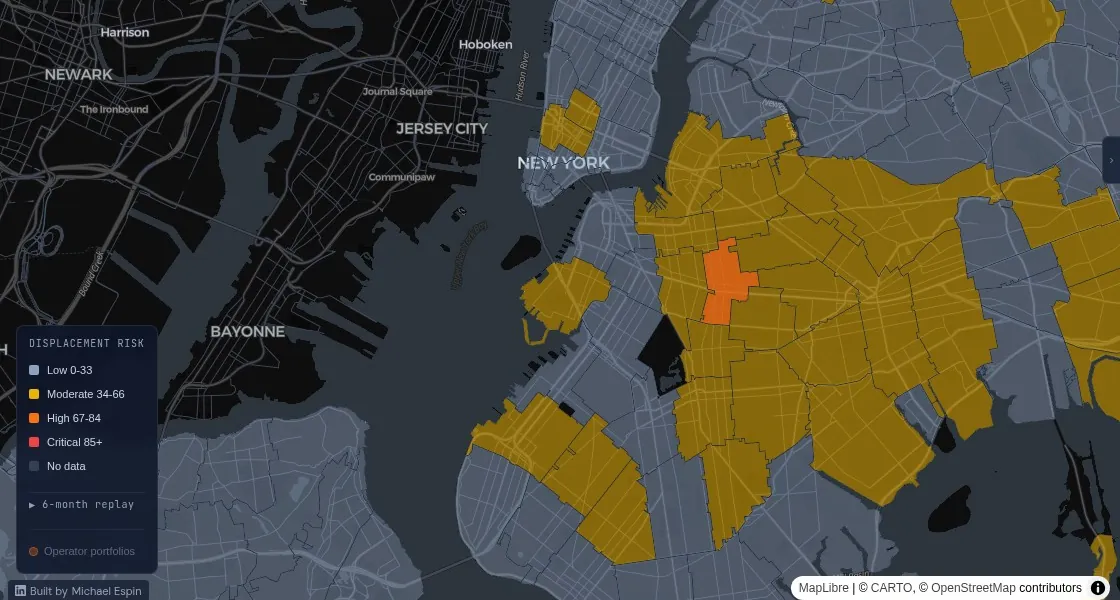
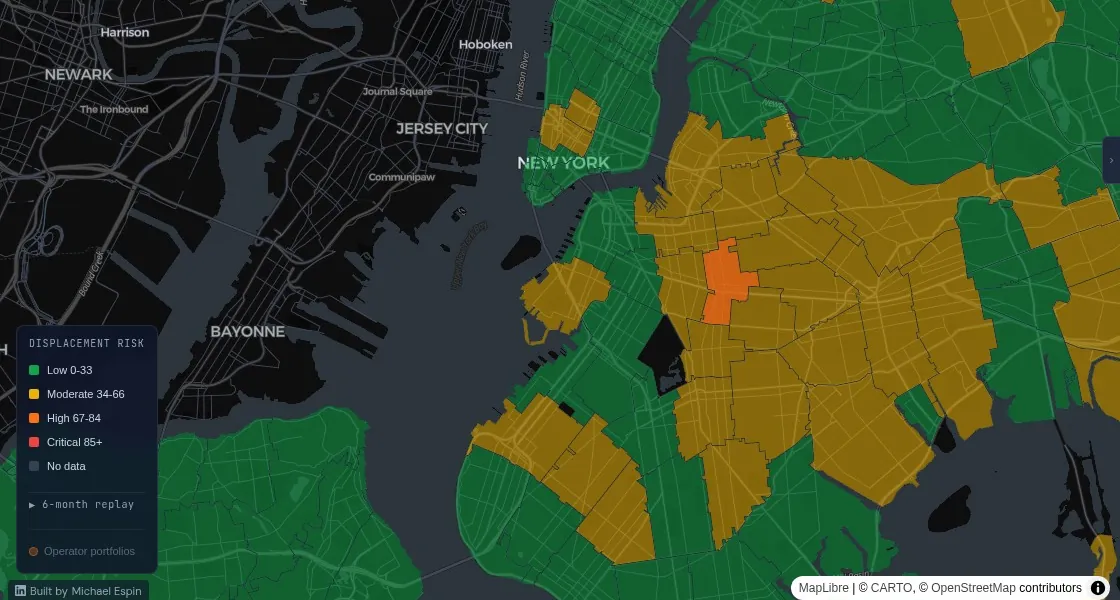
feat(seo): green returns to the map, /neighborhoods directory, real 404s
Michael called the grey low tier lifeless and wanted green back. Low is
now a deeper green (#16a34a at 0.55) instead of the old neon, with the
gold/orange/red heat ramp and opacity steps kept, so stable reads alive
and pressure still owns the map. Teaser and og-image regenerated;
teaser URLs carry ?v=2 to bust the 30-day immutable cache.

New /neighborhoods directory: every scored ZIP grouped by borough and
ranked by score, server-rendered with ItemList JSON-LD. One crawlable hop
from the homepage to all 177 neighborhood pages, which were previously
reachable only through the map app or the sitemap. Linked from the
rankings CTA and the footer; nginx location added and config synced to
deploy/.

Soft 404s are gone: unknown or malformed /neighborhood/ and /property/
paths return the real 404 page (noindex) instead of a 200 app shell, and
the junk 99999 row in the neighborhoods table no longer renders a page.
Tests updated to pin the 404 contract.

Landing header widens to 1200px with a larger wordmark so the brand sits
left and all links fit one row on desktop.

diff --git a/frontend/index.html b/frontend/index.html
@@ -370,16 +370,16 @@
 
     <!-- Nav -->
     <header style="border-bottom:1px solid rgba(51,65,85,0.4);position:sticky;top:0;z-index:20;background:rgba(10,10,26,0.92);backdrop-filter:blur(8px);">
-        <nav id="site-nav" style="max-width:680px;margin:0 auto;padding:12px 20px;display:flex;align-items:center;justify-content:space-between;">
+        <nav id="site-nav" style="max-width:1200px;margin:0 auto;padding:12px 24px;display:flex;align-items:center;justify-content:space-between;">
             <div id="wordmark-group" style="display:flex;align-items:center;gap:10px;">
-                <a href="/" style="display:inline-flex;align-items:center;gap:8px;font-size:1rem;font-weight:600;color:#e2e8f0;text-decoration:none;letter-spacing:-0.01em;">
-                    <svg width="20" height="20" viewBox="0 0 32 32" fill="none" xmlns="http://www.w3.org/2000/svg" aria-hidden="true" focusable="false">
+                <a href="/" style="display:inline-flex;align-items:center;gap:9px;font-size:1.25rem;font-weight:600;color:#e2e8f0;text-decoration:none;letter-spacing:-0.01em;">
+                    <svg width="26" height="26" viewBox="0 0 32 32" fill="none" xmlns="http://www.w3.org/2000/svg" aria-hidden="true" focusable="false">
                         <rect width="32" height="32" rx="6" fill="#1a1a2e"/>
                         <polyline points="2,16 7,16 10,9 13,23 16,13 19,19 22,16 30,16" fill="none" stroke="#f97316" stroke-width="2.2" stroke-linecap="round" stroke-linejoin="round"/>
                     </svg>
                     PulseCities
                 </a>
-                <a id="byline-link" href="https://www.linkedin.com/in/michaelespin/" target="_blank" rel="noopener noreferrer" aria-label="by Michael Espin on LinkedIn" style="font-size:11px;color:#94a3b8;text-decoration:none;transition:color 0.15s;" onmouseover="this.style.color='#cbd5e1'" onmouseout="this.style.color='#94a3b8'">by Michael Espin</a>
+                <a id="byline-link" href="https://www.linkedin.com/in/michaelespin/" target="_blank" rel="noopener noreferrer" aria-label="by Michael Espin on LinkedIn" style="font-size:12px;color:#94a3b8;text-decoration:none;transition:color 0.15s;align-self:flex-end;padding-bottom:3px;" onmouseover="this.style.color='#cbd5e1'" onmouseout="this.style.color='#94a3b8'">by Michael Espin</a>
             </div>
             <div id="nav-links" style="display:flex;align-items:center;gap:20px;">
                 <a href="/map" style="font-size:12px;color:#94a3b8;text-decoration:none;transition:color 0.15s;">Map</a>
@@ -453,8 +453,8 @@
             <!-- The map itself is the pitch: static shot, click through to the app -->
             <a href="/map" id="cta-explore" class="map-teaser" aria-label="Explore the live displacement risk map">
                 <picture>
-                    <source srcset="/map-preview-560.webp 560w, /map-preview.webp 1120w" sizes="(max-width: 680px) calc(100vw - 40px), 640px" type="image/webp">
-                    <img src="/map-preview.jpg" srcset="/map-preview-560.jpg 560w, /map-preview.jpg 1120w" sizes="(max-width: 680px) calc(100vw - 40px), 640px" width="1120" height="600" alt="Live displacement risk map of NYC. Low-pressure areas in cool blue, moderate in bronze, high-pressure neighborhoods glowing orange." loading="eager" fetchpriority="high" decoding="async">
+                    <source srcset="/map-preview-560.webp?v=2 560w, /map-preview.webp?v=2 1120w" sizes="(max-width: 680px) calc(100vw - 40px), 640px" type="image/webp">
+                    <img src="/map-preview.jpg?v=2" srcset="/map-preview-560.jpg?v=2 560w, /map-preview.jpg?v=2 1120w" sizes="(max-width: 680px) calc(100vw - 40px), 640px" width="1120" height="600" alt="Live displacement risk map of NYC. Stable areas in green, moderate pressure in gold, high-pressure neighborhoods glowing orange." loading="eager" fetchpriority="high" decoding="async">
                 </picture>
                 <span class="map-teaser-label" data-i18n="explore_map">Explore the map &rarr;</span>
             </a>
@@ -549,6 +549,7 @@
                 <a href="https://www.linkedin.com/in/michaelespin/" target="_blank" rel="noopener noreferrer" style="color:#64748b;text-decoration:none;" onmouseover="this.style.color='#94a3b8'" onmouseout="this.style.color='#64748b'">Built by Michael Espin</a>
             </div>
             <div id="footer-nav" style="display:flex;justify-content:center;gap:20px;flex-wrap:wrap;align-items:center;">
+                <a href="/neighborhoods" style="color:#64748b;text-decoration:none;" onmouseover="this.style.color='#94a3b8'" onmouseout="this.style.color='#64748b'">Neighborhoods</a>
                 <a href="/methodology" style="color:#64748b;text-decoration:none;" onmouseover="this.style.color='#94a3b8'" onmouseout="this.style.color='#64748b'">Methodology</a>
                 <a href="/about" style="color:#64748b;text-decoration:none;" onmouseover="this.style.color='#94a3b8'" onmouseout="this.style.color='#64748b'">About</a>
                 <a href="/status" style="color:#64748b;text-decoration:none;" onmouseover="this.style.color='#94a3b8'" onmouseout="this.style.color='#64748b'">Status</a>
@@ -770,7 +771,7 @@
             });
 
             const cta = document.createElement('a');
-            cta.href      = '/map';
+            cta.href      = '/neighborhoods';
             cta.className = 'font-mono';
             cta.style.cssText = 'display:inline-block;margin-top:12px;font-size:12px;color:#38bdf8;text-decoration:none;opacity:0.7;transition:opacity 0.15s;';
             cta.textContent = 'View full rankings →';

diff --git a/frontend/app.html b/frontend/app.html
@@ -437,7 +437,7 @@
             <!-- Map legend — bottom-left, always visible -->
             <div id="map-legend" class="absolute bottom-9 left-4 z-10 rounded-lg px-3 py-2 flex flex-col gap-1" style="background:rgba(15,23,42,0.88);backdrop-filter:blur(6px);border:1px solid rgba(148,163,184,0.15);font-size:11px;">
                 <div class="text-slate-400 font-mono uppercase tracking-wider mb-0.5" style="font-size:10px;letter-spacing:0.08em;"><span id="legend-header">displacement risk</span></div>
-                <div class="flex items-center gap-2"><span style="width:10px;height:10px;border-radius:2px;background:#8da2c0;display:inline-block;flex-shrink:0;"></span><span id="legend-low" class="text-slate-300">Low 0-33</span></div>
+                <div class="flex items-center gap-2"><span style="width:10px;height:10px;border-radius:2px;background:#16a34a;display:inline-block;flex-shrink:0;"></span><span id="legend-low" class="text-slate-300">Low 0-33</span></div>
                 <div class="flex items-center gap-2"><span style="width:10px;height:10px;border-radius:2px;background:#eab308;display:inline-block;flex-shrink:0;"></span><span id="legend-moderate" class="text-slate-300">Moderate 34-66</span></div>
                 <div class="flex items-center gap-2"><span style="width:10px;height:10px;border-radius:2px;background:#f97316;display:inline-block;flex-shrink:0;"></span><span id="legend-high" class="text-slate-300">High 67-84</span></div>
                 <div class="flex items-center gap-2"><span style="width:10px;height:10px;border-radius:2px;background:#ef4444;display:inline-block;flex-shrink:0;"></span><span id="legend-critical" class="text-slate-300">Critical 85+</span></div>
@@ -2109,8 +2109,9 @@
                 console.debug('[perf] GeoJSON source loaded', Math.round(performance.now() - _perfGeoJsonStart) + 'ms');
             });
 
-            // Choropleth fill layer. Low-pressure ZIPs sit quiet in cool steel;
-            // the ramp only warms where the score does, so heat is the signal.
+            // Choropleth fill layer. Stable ZIPs read green, then the ramp
+            // warms with the score and opacity rises with it, so pressure
+            // still owns the map at a glance.
             map.addLayer({
                 id: 'neighborhood-fill',
                 type: 'fill',
@@ -2121,7 +2122,7 @@
                         ['==', ['coalesce', ['feature-state', 'score'], ['get', 'score']], null], '#334155',
                         [
                             'step', ['coalesce', ['feature-state', 'score'], ['get', 'score']],
-                            '#8da2c0',
+                            '#16a34a',
                             34, '#eab308',
                             67, '#f97316',
                             85, '#ef4444'
@@ -2132,7 +2133,7 @@
                         ['==', ['coalesce', ['feature-state', 'score'], ['get', 'score']], null], 0.45,
                         [
                             'step', ['coalesce', ['feature-state', 'score'], ['get', 'score']],
-                            0.5,
+                            0.55,
                             34, 0.55,
                             67, 0.82,
                             85, 0.9

diff --git a/frontend/methodology.html b/frontend/methodology.html
@@ -681,7 +681,7 @@
 
         <div class="score-ranges">
             <div class="score-range">
-                <div class="color-dot" style="background:#56688c;"></div>
+                <div class="color-dot" style="background:#16a34a;"></div>
                 <span class="score-range-num">0 – 33</span>
                 <span class="score-range-label">Low pressure</span>
             </div>

diff --git a/api/routes/frontend.py b/api/routes/frontend.py
@@ -48,6 +48,18 @@ def _operator_template() -> str:
     return _operator_html
 
 
+_not_found_html: str | None = None
+
+
+def _not_found() -> HTMLResponse:
+    """Real 404 for unknown neighborhood/property paths. Serving the app
+    shell with a 200 here reads as a soft 404 to crawlers."""
+    global _not_found_html
+    if _not_found_html is None:
+        _not_found_html = (_FRONTEND / "404.html").read_text()
+    return HTMLResponse(_not_found_html, status_code=404)
+
+
 def _set_meta(html: str, attr: str, attr_val: str, new_content: str) -> str:
     """Replace content="..." on the meta tag identified by attr=attr_val.
 
@@ -509,7 +521,7 @@ def about_page():
 @router.get("/neighborhood/{zip_code}", include_in_schema=False)
 def neighborhood_page(zip_code: str, db: Session = Depends(get_db)):
     if not (len(zip_code) == 5 and zip_code.isdigit()):
-        return HTMLResponse(_template(), status_code=200)
+        return _not_found()
 
     cached = _page_cache.get(zip_code)
     if cached and time.monotonic() < cached[1]:
@@ -522,8 +534,10 @@ def neighborhood_page(zip_code: str, db: Session = Depends(get_db)):
         WHERE n.zip_code = :zip
     """), {"zip": zip_code}).fetchone()
 
-    if not row:
-        return HTMLResponse(_template(), status_code=200)
+    # No row, or a placeholder row with neither name nor score (the table
+    # carries at least one junk entry): nothing to render, real 404.
+    if not row or (row.name is None and row.score is None):
+        return _not_found()
 
     from api.routes.neighborhoods import _borough_from_zip, _build_summary, _fetch_raw_counts
 
@@ -565,7 +579,7 @@ def neighborhood_page(zip_code: str, db: Session = Depends(get_db)):
 def property_page(bbl: str, db: Session = Depends(get_db)):
     clean = bbl.strip()
     if not clean.isdigit():
-        return HTMLResponse(_template(), status_code=200)
+        return _not_found()
 
     cached = _prop_page_cache.get(clean)
     if cached and time.monotonic() < cached[1]:
@@ -590,7 +604,7 @@ def property_page(bbl: str, db: Session = Depends(get_db)):
     """), {"bbl": clean}).fetchone()
 
     if not row:
-        return HTMLResponse(_template(), status_code=200)
+        return _not_found()
 
     address  = row.address.title() if row.address else clean
     zip_code = row.zip_code or ""
@@ -1165,6 +1179,175 @@ footer{{text-align:center;padding:24px 16px calc(env(safe-area-inset-bottom,0px)
 </html>"""
 
     _operators_cache = (page, time.monotonic() + _PAGE_TTL)
+    return HTMLResponse(page)
+
+
+_nbhd_index_cache: tuple[str, float] | None = None  # cleared on restart
+
+
+@router.get("/neighborhoods", include_in_schema=False)
+def neighborhoods_directory(db: Session = Depends(get_db)):
+    """Every scored ZIP page, grouped by borough, ranked by score.
+
+    One crawlable hop from the homepage to all 177 neighborhood pages, and a
+    scannable answer to "how does my area compare" without opening the map.
+    """
+    global _nbhd_index_cache
+    if _nbhd_index_cache and time.monotonic() < _nbhd_index_cache[1]:
+        return HTMLResponse(_nbhd_index_cache[0])
+
+    from api.routes.neighborhoods import _borough_from_zip
+
+    rows = db.execute(text("""
+        SELECT n.zip_code, n.name, ds.score
+        FROM neighborhoods n
+        JOIN displacement_scores ds ON ds.zip_code = n.zip_code
+        WHERE ds.score IS NOT NULL
+        ORDER BY ds.score DESC
+    """)).fetchall()
+
+    boroughs: dict[str, list] = {}
+    for r in rows:
+        b = _borough_from_zip(r.zip_code) or "Other"
+        boroughs.setdefault(b, []).append(r)
+
+    sections_html = ""
+    list_items = []
+    pos = 0
+    for borough in ("Manhattan", "Brooklyn", "Queens", "Bronx", "Staten Island", "Other"):
+        entries = boroughs.get(borough)
+        if not entries:
+            continue
+        rows_html = ""
+        for r in entries:
+            score = float(r.score)
+            _, color = _tier_info(score)
+            name = _html.escape(r.name or r.zip_code)
+            width = max(2, min(100, score))
+            pos += 1
+            rows_html += (
+                f'<li class="nb-row"><a href="/neighborhood/{r.zip_code}">'
+                f'<span class="nb-zip">{r.zip_code}</span>'
+                f'<span class="nb-name">{name}</span>'
+                f'<span class="nb-score" style="color:{color};">{score:.1f}</span>'
+                f'<span class="nb-track"><span class="nb-fill" style="width:{width}%;background:{color};"></span></span>'
+                f'</a></li>\n'
+            )
+            list_items.append({
+                "@type": "ListItem",
+                "position": pos,
+                "name": f"{r.name or r.zip_code} ({r.zip_code}) displacement score",
+                "url": f"https://pulsecities.com/neighborhood/{r.zip_code}",
+            })
+        sections_html += (
+            f'<section class="nb-borough">'
+            f'<h2>{borough}</h2>'
+            f'<ul class="nb-list">\n{rows_html}</ul>'
+            f'</section>\n'
+        )
+
+    n = len(rows)
+    title = "NYC Neighborhoods by Displacement Score | PulseCities"
+    desc = (
+        f"Displacement-pressure scores for all {n} scored NYC ZIP codes, grouped by borough "
+        f"and ranked by current score. Built from public records, refreshed nightly."
+    )
+    jsonld = json.dumps({
+        "@context": "https://schema.org",
+        "@type": "ItemList",
+        "name": "NYC neighborhoods by displacement score",
+        "description": desc,
+        "url": "https://pulsecities.com/neighborhoods",
+        "numberOfItems": n,
+        "itemListElement": list_items,
+    }, indent=2)
+
+    page = f"""<!DOCTYPE html>
+<html lang="en">
+<head>
+<meta charset="UTF-8">
+<meta name="viewport" content="width=device-width, initial-scale=1.0">
+<title>{_html.escape(title)}</title>
+<meta name="description" content="{_html.escape(desc)}">
+<link rel="canonical" href="https://pulsecities.com/neighborhoods">
+<meta property="og:title" content="{_html.escape(title)}">
+<meta property="og:description" content="{_html.escape(desc)}">
+<meta property="og:url" content="https://pulsecities.com/neighborhoods">
+<meta property="og:type" content="website">
+<meta property="og:site_name" content="PulseCities">
+<meta property="og:image" content="https://pulsecities.com/og-image.png">
+<meta name="twitter:card" content="summary_large_image">
+<meta name="twitter:title" content="{_html.escape(title)}">
+<meta name="twitter:description" content="{_html.escape(desc)}">
+<meta name="twitter:image" content="https://pulsecities.com/og-image.png">
+<script type="application/ld+json">{jsonld}</script>
+<link rel="preload" href="https://fonts.googleapis.com/css2?family=Bricolage+Grotesque:opsz,wght@12..96,600&family=DM+Sans:wght@400;500;600&family=JetBrains+Mono:wght@400;500&display=swap" as="style" onload="this.onload=null;this.rel='stylesheet'">
+<noscript><link rel="stylesheet" href="https://fonts.googleapis.com/css2?family=Bricolage+Grotesque:opsz,wght@12..96,600&family=DM+Sans:wght@400;500;600&family=JetBrains+Mono:wght@400;500&display=swap"></noscript>
+<style>
+*,*::before,*::after{{box-sizing:border-box;margin:0;padding:0}}
+body{{font-family:'DM Sans',sans-serif;background:#0f172a;color:#f1f5f9;min-height:100vh}}
+nav{{border-bottom:1px solid rgba(148,163,184,0.08);padding:12px 0}}
+.nav-inner{{max-width:860px;margin:0 auto;padding:0 20px;display:flex;align-items:center;justify-content:space-between}}
+.container{{max-width:860px;margin:0 auto;padding:32px 20px 80px}}
+a{{color:inherit;text-decoration:none}}
+footer{{text-align:center;padding:24px 16px calc(env(safe-area-inset-bottom,0px) + 24px);border-top:1px solid rgba(148,163,184,0.08);margin-top:32px;font-size:12px;color:#64748b}}
+.footer-links{{display:flex;justify-content:center;gap:24px;flex-wrap:wrap}}
+@media(max-width:767px){{.container{{padding:32px 16px calc(env(safe-area-inset-bottom,0px) + 24px)}}}}
+.nb-borough{{margin-bottom:36px}}
+.nb-borough h2{{font-family:'Bricolage Grotesque','DM Sans',sans-serif;font-size:1.05rem;font-weight:600;margin-bottom:10px;color:#e2e8f0}}
+.nb-list{{list-style:none;padding:0;margin:0}}
+.nb-row{{border-bottom:1px solid rgba(148,163,184,0.07)}}
+.nb-row:hover{{background:rgba(148,163,184,0.04)}}
+.nb-row a{{display:grid;grid-template-columns:56px 1fr 52px;grid-template-rows:auto auto;column-gap:14px;row-gap:5px;align-items:baseline;padding:10px 0}}
+.nb-zip{{font-family:'JetBrains Mono',monospace;font-size:0.85rem;font-weight:500;color:#e2e8f0}}
+.nb-row:hover .nb-zip{{color:#f97316}}
+.nb-name{{font-size:0.82rem;color:#94a3b8;overflow:hidden;text-overflow:ellipsis;white-space:nowrap}}
+.nb-score{{font-family:'JetBrains Mono',monospace;font-size:0.85rem;font-weight:600;text-align:right}}
+.nb-track{{grid-column:1 / -1;display:block;height:3px;border-radius:2px;background:rgba(148,163,184,0.1);overflow:hidden}}
+.nb-fill{{display:block;height:100%;border-radius:2px}}
+</style>
+</head>
+<body>
+<nav>
+  <div class="nav-inner">
+    <a href="/" style="display:flex;align-items:center;gap:8px;color:#f1f5f9;">
+      <svg width="22" height="22" viewBox="0 0 32 32" fill="none" aria-hidden="true"><rect width="32" height="32" rx="6" fill="#1a1a2e"/><polyline points="2,16 7,16 10,9 13,23 16,13 19,19 22,16 30,16" fill="none" stroke="#f97316" stroke-width="2.2" stroke-linecap="round" stroke-linejoin="round"/></svg>
+      <span style="font-size:0.85rem;color:rgba(148,163,184,0.6);">PulseCities</span>
+    </a>
+    <div style="display:flex;align-items:center;gap:16px;">
+      <a href="/map" style="font-size:0.78rem;color:rgba(148,163,184,0.5);" onmouseover="this.style.color='#94a3b8'" onmouseout="this.style.color='rgba(148,163,184,0.5)'">Map</a>
+      <a href="/operators" style="font-size:0.78rem;color:rgba(148,163,184,0.5);" onmouseover="this.style.color='#94a3b8'" onmouseout="this.style.color='rgba(148,163,184,0.5)'">Operators</a>
+      <a href="/flips" style="font-size:0.78rem;color:rgba(148,163,184,0.5);" onmouseover="this.style.color='#94a3b8'" onmouseout="this.style.color='rgba(148,163,184,0.5)'">Flips</a>
+      <a href="/radar" style="font-size:0.78rem;color:rgba(148,163,184,0.5);" onmouseover="this.style.color='#94a3b8'" onmouseout="this.style.color='rgba(148,163,184,0.5)'">Radar</a>
+      <a href="/methodology" style="font-size:0.78rem;color:rgba(148,163,184,0.5);" onmouseover="this.style.color='#94a3b8'" onmouseout="this.style.color='rgba(148,163,184,0.5)'">Methodology</a>
+    </div>
+  </div>
+</nav>
+<div class="container">
+  <div style="margin-bottom:8px;">
+    <a href="/" style="font-size:0.75rem;color:rgba(148,163,184,0.5);">&#8592; Home</a>
+  </div>
+  <h1 style="font-family:'Bricolage Grotesque','DM Sans',sans-serif;font-size:1.4rem;font-weight:600;margin-bottom:6px;">NYC neighborhoods by displacement score</h1>
+  <p style="font-size:0.82rem;color:#94a3b8;margin-bottom:8px;line-height:1.6;">
+    Every scored ZIP in the city, grouped by borough and ranked by current displacement pressure. Each page shows the signal breakdown, the six-month trend, and an embeddable score badge.
+  </p>
+  <p style="font-family:'JetBrains Mono',monospace;font-size:0.72rem;color:rgba(148,163,184,0.55);margin-bottom:28px;">{n} ZIP codes scored nightly from public records.</p>
+  {sections_html}
+</div>
+<footer>
+  <div style="font-size:11px;color:#64748b;margin-bottom:8px;text-align:center;">Built by Michael Espin</div>
+  <div class="footer-links">
+    <a href="/" style="color:#64748b;" onmouseover="this.style.color='#94a3b8'" onmouseout="this.style.color='#64748b'">Home</a>
+    <a href="/methodology" style="color:#64748b;" onmouseover="this.style.color='#94a3b8'" onmouseout="this.style.color='#64748b'">Methodology</a>
+    <a href="/about" style="color:#64748b;" onmouseover="this.style.color='#94a3b8'" onmouseout="this.style.color='#64748b'">About</a>
+    <a href="/status" style="color:#64748b;" onmouseover="this.style.color='#94a3b8'" onmouseout="this.style.color='#64748b'">Status</a>
+    <a href="mailto:nycdisplacement@gmail.com" style="color:#64748b;" onmouseover="this.style.color='#94a3b8'" onmouseout="this.style.color='#64748b'">Contact</a>
+  </div>
+</footer>
+</body>
+</html>"""
+
+    _nbhd_index_cache = (page, time.monotonic() + _PAGE_TTL)
     return HTMLResponse(page)
 
 

diff --git a/tests/test_frontend_routes.py b/tests/test_frontend_routes.py
@@ -304,13 +304,15 @@ class TestPropertyPage:
         line = next((l for l in resp.text.splitlines() if 'property="og:description"' in l), "")
         assert "displacement" in line.lower(), f"og:description missing or generic: {line}"
 
-    def test_unknown_bbl_returns_200_shell(self, client):
+    def test_unknown_bbl_returns_404(self, client):
+        """A 200 app shell here is a soft 404; crawlers must see a real one."""
         resp = client.get("/property/9999999999")
-        assert resp.status_code == 200
+        assert resp.status_code == 404
+        assert 'name="robots" content="noindex"' in resp.text
 
-    def test_non_numeric_bbl_returns_200_shell(self, client):
+    def test_non_numeric_bbl_returns_404(self, client):
         resp = client.get("/property/not-a-bbl")
-        assert resp.status_code == 200
+        assert resp.status_code == 404
 
 
 class TestCanonicalTierBands:

diff --git a/scripts/generate_sitemap.py b/scripts/generate_sitemap.py
@@ -25,6 +25,7 @@ _CORE = [
     ("/methodology", "weekly",  "0.8",  "2026-07-09"),
     ("/about",       "weekly",  "0.8",  "2026-04-29"),
     ("/operators",   "weekly",  "0.75", "2026-04-29"),
+    ("/neighborhoods", "daily", "0.8",  None),
     ("/this-week",   "daily",   "0.75", None),
     ("/flips",       "daily",   "0.75", None),
     ("/radar",       "daily",   "0.75", None),
